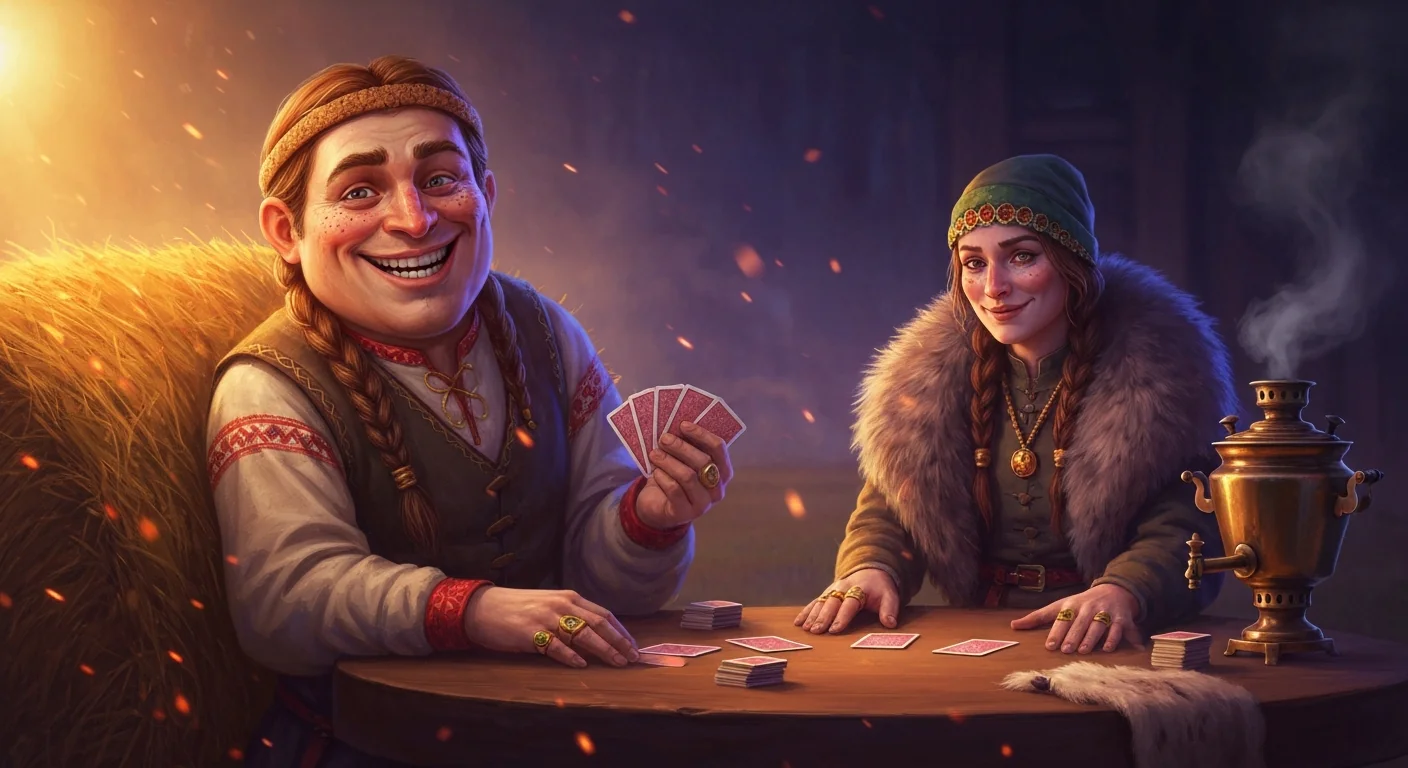
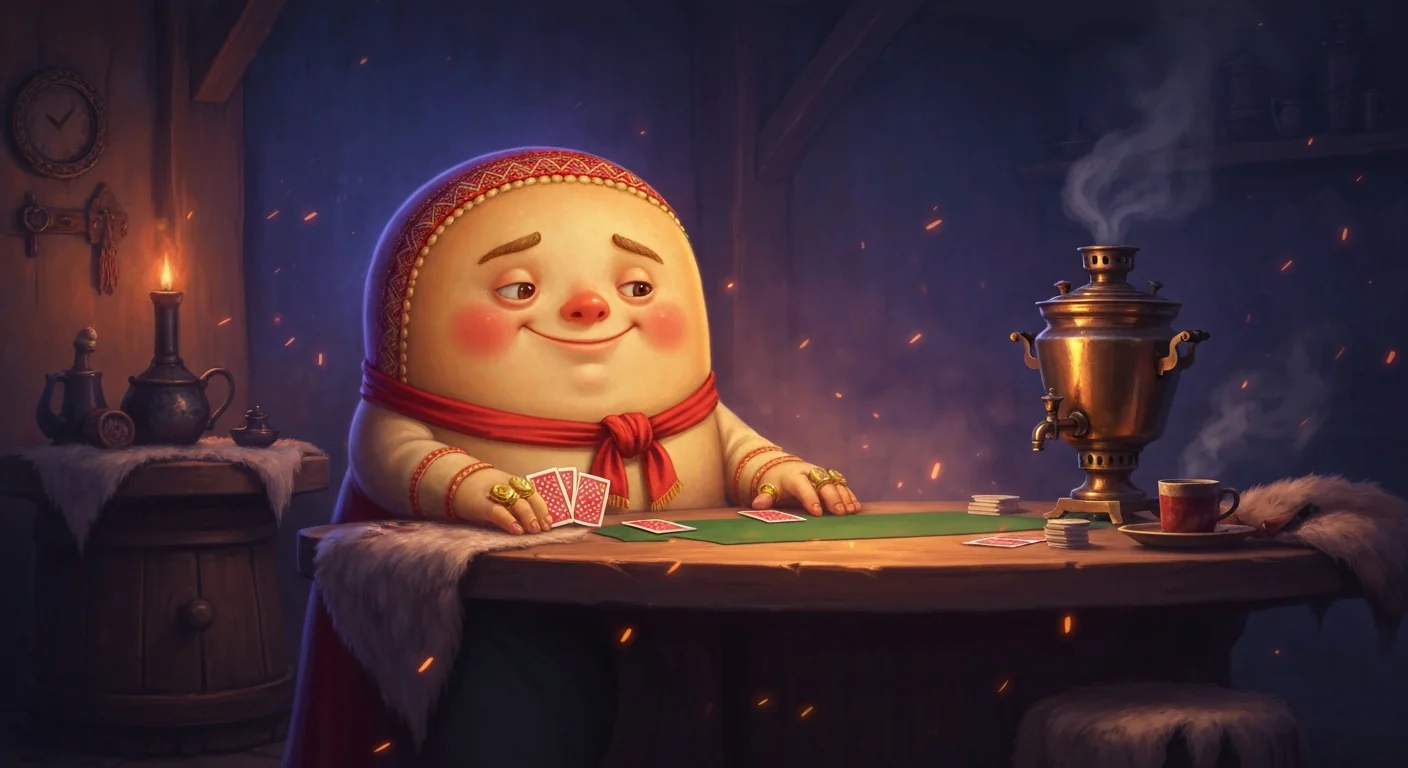
Баннер-замена + бэкенд общего чата (модерация)
- KOLOBOK_CARD_GAME_05.webp заменён копией _02 (спорный арт по фидбеку).
- mobile-backend: модель ChatMessage + эндпоинты общего чата:
  POST /api/mobile/chat-room (отправка, reply), GET (лента, afterId),
  /delete (только автор), /report (жалоба, авто-скрытие при 3+).
  Страница модерации GET /admin/chat?key= — скрыть/показать/удалить.
  Android-клиент чата — следующим коммитом.

Claude-Session: https://claude.ai/code/session_01QTk7E6B9YW15MHDcwpm4Us

diff --git a/mobile-backend/src/index.ts b/mobile-backend/src/index.ts
@@ -73,6 +73,21 @@ const standingSchema = z.object({
   platform: z.string().max(20).default('android'),
 })
 
+const chatPostSchema = z.object({
+  playerId: z.string().min(8).max(64),
+  nickname: z.string().min(1).max(40),
+  text: z.string().min(1).max(500),
+  replyToId: z.number().int().positive().nullish(),
+})
+
+const chatActionSchema = z.object({
+  playerId: z.string().min(8).max(64),
+  messageId: z.number().int().positive(),
+})
+
+// При скольких жалобах сообщение автоматически прячется до разбора.
+const REPORT_HIDE_THRESHOLD = 3
+
 function checkKey(got: unknown): boolean {
   const expected = process.env.MOBILE_APP_KEY
   if (!expected) return true // ключ не задан — открыто (удобно для локалки)
@@ -204,6 +219,105 @@ async function main() {
     }
   })
 
+  // ── Общий игровой чат ──────────────────────────────────────────────
+  // Отправить сообщение.
+  app.post('/api/mobile/chat-room', async (request, reply) => {
+    if (!checkKey(request.headers['x-app-key'])) {
+      return reply.status(401).send({ error: 'Invalid app key' })
+    }
+    const parsed = chatPostSchema.safeParse(request.body)
+    if (!parsed.success) {
+      return reply.status(400).send({ error: 'Bad request', details: parsed.error.issues })
+    }
+    const m = parsed.data
+    const created = await prisma.chatMessage.create({
+      data: {
+        playerId: m.playerId,
+        nickname: m.nickname,
+        text: m.text.trim(),
+        replyToId: m.replyToId ?? null,
+      },
+    })
+    return { ok: true, id: created.id }
+  })
+
+  // Лента: свежие сообщения (не удалённые/не скрытые). afterId — только новее.
+  app.get('/api/mobile/chat-room', async (request, reply) => {
+    if (!checkKey(request.headers['x-app-key'])) {
+      return reply.status(401).send({ error: 'Invalid app key' })
+    }
+    const q = request.query as { limit?: string; afterId?: string }
+    const limit = Math.min(Math.max(Number(q.limit) || 100, 1), 200)
+    const afterId = Number(q.afterId) || 0
+    const rows = await prisma.chatMessage.findMany({
+      where: {
+        deleted: false,
+        hidden: false,
+        ...(afterId > 0 ? { id: { gt: afterId } } : {}),
+      },
+      orderBy: { id: 'desc' },
+      take: limit,
+    })
+    // Подтягиваем превью цитируемых сообщений одним запросом.
+    const replyIds = Array.from(
+      new Set(rows.map((r) => r.replyToId).filter((x): x is number => !!x)),
+    )
+    const replies = replyIds.length
+      ? await prisma.chatMessage.findMany({ where: { id: { in: replyIds } } })
+      : []
+    const replyMap = new Map(replies.map((r) => [r.id, r]))
+    const messages = rows
+      .slice()
+      .reverse()
+      .map((r) => {
+        const rep = r.replyToId ? replyMap.get(r.replyToId) : null
+        return {
+          id: r.id,
+          playerId: r.playerId,
+          nickname: r.nickname,
+          text: r.text,
+          createdAt: r.createdAt.toISOString(),
+          replyToId: r.replyToId,
+          replyToNick: rep && !rep.deleted ? rep.nickname : null,
+          replyToText: rep && !rep.deleted ? rep.text.slice(0, 120) : null,
+        }
+      })
+    return { messages }
+  })
+
+  // Удалить своё сообщение (только автор).
+  app.post('/api/mobile/chat-room/delete', async (request, reply) => {
+    if (!checkKey(request.headers['x-app-key'])) {
+      return reply.status(401).send({ error: 'Invalid app key' })
+    }
+    const parsed = chatActionSchema.safeParse(request.body)
+    if (!parsed.success) return reply.status(400).send({ error: 'Bad request' })
+    const { playerId, messageId } = parsed.data
+    const msg = await prisma.chatMessage.findUnique({ where: { id: messageId } })
+    if (!msg || msg.playerId !== playerId) {
+      return reply.status(403).send({ error: 'Not your message' })
+    }
+    await prisma.chatMessage.update({ where: { id: messageId }, data: { deleted: true } })
+    return { ok: true }
+  })
+
+  // Пожаловаться на сообщение. Порог жалоб → авто-скрытие до разбора.
+  app.post('/api/mobile/chat-room/report', async (request, reply) => {
+    if (!checkKey(request.headers['x-app-key'])) {
+      return reply.status(401).send({ error: 'Invalid app key' })
+    }
+    const parsed = chatActionSchema.safeParse(request.body)
+    if (!parsed.success) return reply.status(400).send({ error: 'Bad request' })
+    const updated = await prisma.chatMessage.update({
+      where: { id: parsed.data.messageId },
+      data: { reportCount: { increment: 1 } },
+    })
+    if (updated.reportCount >= REPORT_HIDE_THRESHOLD && !updated.hidden) {
+      await prisma.chatMessage.update({ where: { id: updated.id }, data: { hidden: true } })
+    }
+    return { ok: true }
+  })
+
   // Веб-выгрузка. ?key=... (тот же MOBILE_APP_KEY), ?type=BUG, ?format=csv
   app.get('/admin/feedback', async (request, reply) => {
     const q = request.query as { key?: string; type?: string; format?: string }
@@ -286,6 +400,20 @@ async function main() {
     }
 
     return reply.type('text/html; charset=utf-8').send(renderMerchants(rows, q.key ?? ''))
+  })
+
+  // Модерация чата: лента (включая скрытые/зажалованные) + действия
+  // скрыть/показать/удалить через ?hide= / ?show= / ?del= .
+  app.get('/admin/chat', async (request, reply) => {
+    const q = request.query as { key?: string; hide?: string; show?: string; del?: string }
+    if (!checkKey(q.key)) {
+      return reply.status(401).type('text/plain').send('Invalid key')
+    }
+    if (q.hide) await prisma.chatMessage.update({ where: { id: Number(q.hide) }, data: { hidden: true } }).catch(() => {})
+    if (q.show) await prisma.chatMessage.update({ where: { id: Number(q.show) }, data: { hidden: false, reportCount: 0 } }).catch(() => {})
+    if (q.del) await prisma.chatMessage.update({ where: { id: Number(q.del) }, data: { deleted: true } }).catch(() => {})
+    const rows = await prisma.chatMessage.findMany({ orderBy: { createdAt: 'desc' }, take: 500 })
+    return reply.type('text/html; charset=utf-8').send(renderChat(rows, q.key ?? ''))
   })
 
   const port = Number(process.env.PORT ?? 3000)
@@ -420,6 +548,51 @@ function renderMerchants(rows: any[], key: string): string {
     )}&format=csv" style="padding:6px 12px;border-radius:8px;text-decoration:none;background:#241a3a;color:#4caf50;margin-left:auto">⬇ CSV</a>
   </div>
   ${items || '<p style="color:#8c86a0">Пока никто не играл.</p>'}
+</div></body></html>`
+}
+
+function renderChat(rows: any[], key: string): string {
+  const esc = (v: any) =>
+    String(v ?? '').replace(/&/g, '&amp;').replace(/</g, '&lt;').replace(/>/g, '&gt;')
+  const k = encodeURIComponent(key)
+  const reported = rows.filter((r) => r.reportCount > 0 && !r.deleted).length
+  const items = rows
+    .map((r) => {
+      const dim = r.deleted || r.hidden
+      const badges =
+        (r.hidden ? '<span style="color:#e0a353;font-size:11px">скрыто</span> ' : '') +
+        (r.deleted ? '<span style="color:#e05353;font-size:11px">удалено</span> ' : '') +
+        (r.reportCount > 0 ? `<span style="color:#e05353;font-size:11px">⚑ ${r.reportCount}</span>` : '')
+      const actions = r.deleted
+        ? ''
+        : `${r.hidden
+              ? `<a href="/admin/chat?key=${k}&show=${r.id}" style="color:#4caf50;font-size:12px;margin-right:10px">показать</a>`
+              : `<a href="/admin/chat?key=${k}&hide=${r.id}" style="color:#e0a353;font-size:12px;margin-right:10px">скрыть</a>`
+           }<a href="/admin/chat?key=${k}&del=${r.id}" style="color:#e05353;font-size:12px">удалить</a>`
+      return `
+      <div style="background:#1c142e;border:1px solid ${r.reportCount > 0 && !r.deleted ? '#e0535355' : '#3a2a5a'};border-radius:12px;padding:10px 14px;margin-bottom:8px;opacity:${dim ? 0.5 : 1}">
+        <div style="display:flex;justify-content:space-between;gap:8px;align-items:center">
+          <span style="color:#ffb800;font-size:14px;font-weight:600">${esc(r.nickname)}</span>
+          <span style="color:#6b6580;font-size:11px">${new Date(r.createdAt).toLocaleString('ru-RU')} · #${r.id} ${badges}</span>
+        </div>
+        <div style="color:#eee;font-size:15px;line-height:1.4;white-space:pre-wrap;margin:4px 0 6px">${esc(r.text)}</div>
+        <div>${actions}</div>
+      </div>`
+    })
+    .join('')
+  return `<!doctype html><html lang="ru"><head><meta charset="utf-8">
+<meta name="viewport" content="width=device-width,initial-scale=1">
+<title>Модерация чата</title></head>
+<body style="margin:0;background:#0d0a18;color:#eee;font-family:system-ui,sans-serif">
+<div style="max-width:820px;margin:0 auto;padding:20px 16px 60px">
+  <h1 style="color:#ffb800;font-size:22px">🗨 Чат — модерация <span style="color:#8c86a0;font-size:15px;font-weight:400">(${rows.length}${
+    reported ? `, ⚑ ${reported}` : ''
+  })</span></h1>
+  <div style="display:flex;gap:8px;flex-wrap:wrap;margin:12px 0 20px">
+    <a href="/admin/merchants?key=${k}" style="padding:6px 12px;border-radius:8px;text-decoration:none;background:#241a3a;color:#ffb800">🏆 Купцы</a>
+    <a href="/admin/feedback?key=${k}" style="padding:6px 12px;border-radius:8px;text-decoration:none;background:#241a3a;color:#ffb800">🐞 Заметки</a>
+  </div>
+  ${items || '<p style="color:#8c86a0">Сообщений пока нет.</p>'}
 </div></body></html>`
 }
 
